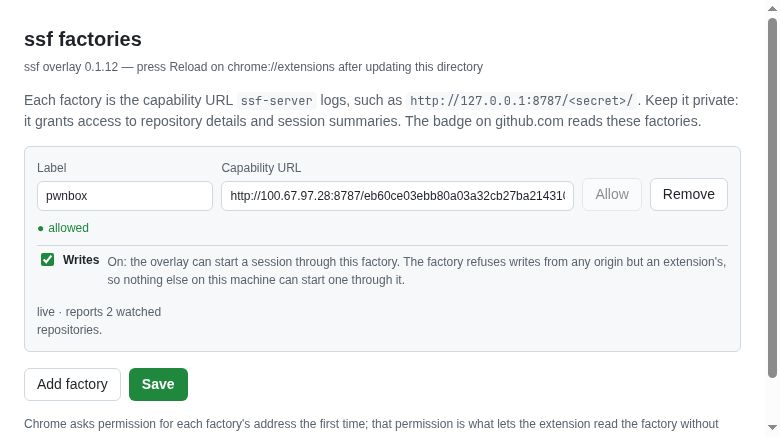
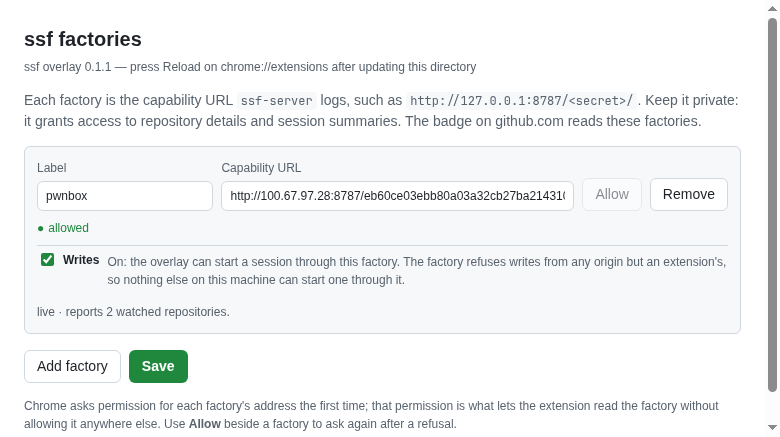
Overlay: fold in the options-page review (#435)
Independent review of the pinned diff found three things, all fixed here.

The port to the service worker was opened once and never kept alive.
Since Chrome 114 an open port does not reset the worker's idle timer --
only messages do -- and the worker is stopped after 30 seconds of
inactivity, which closes the port. An options page left open would then
freeze its health lines at their last text, so a factory that had since
gone down kept reading live, and a factory saved afterwards read blank,
because the restarted worker broadcast to a port set the page was no
longer in. The page now pings every 20 seconds, as the content script
does, and opens a new port from onDisconnect.

A row whose URL the worker has not named yet read blank, which is the
silence this change exists to remove; it now reads "not answered yet.",
so saving a factory never shows nothing.

`grid-column: 1 / -1` on the health line and a screenshot taken from a
test copy whose version had been bumped to 0.1.12, while the manifest in
the same commit said 0.1.1 -- exactly the mismatch the change is meant to
remove. The line is measured at 691 of the row's 717 pixels now, one line
for the common case, and the screenshot was retaken from a browser
running the shipped 0.1.1.

Rebased onto d2b4a46, master's squash of the previous commit, which the
branch conflicted with in the extension guide.

Re-verified in Chromium: the shipped version line and the live factory
[…]

diff --git a/chrome-extension/options.js b/chrome-extension/options.js
@@ -20,6 +20,9 @@ const save = document.getElementById("save");
 let entries = [];
 /// origin pattern -> whether Chrome currently allows it.
 let granted = new Map();
+/// How often the page pings the worker to keep it from being evicted. The same
+/// interval the content script uses.
+const PING_MS = 20000;
 
 function show(message) {
   status.textContent = message;
@@ -204,9 +207,17 @@ let factories = [];
 function showHealth() {
   for (const node of rows.querySelectorAll(".health")) {
     const url = node.dataset.url;
-    const factory = factories.find((one) => one.url === url);
-    if (!url || !factory) {
+    // A row with no usable URL yet -- one just added, or not saved -- has
+    // nothing to report, but a factory the worker has not named yet reads "not
+    // answered yet" rather than nothing: a line that goes blank at the moment
+    // someone saves a factory is the silence this exists to remove (#435).
+    if (!url) {
       node.textContent = "";
+      continue;
+    }
+    const factory = factories.find((one) => one.url === url);
+    if (!factory) {
+      node.textContent = "not answered yet.";
       continue;
     }
     const watched = factory.repositories?.length ?? 0;
@@ -223,14 +234,28 @@ function showHealth() {
 }
 
 // The worker pushes a snapshot when the page connects and on every change, so
-// these lines stay current without polling: a URL just saved reads "not
-// answered yet" until its stream connects, and then says what came back.
-const worker = chrome.runtime.connect({ name: "ssf-overlay" });
-worker.onMessage.addListener((message) => {
-  if (message?.type !== "snapshot") return;
-  factories = message.payload?.factories ?? [];
-  showHealth();
-});
+// these lines stay current without polling. The ping is what keeps the worker
+// alive -- an open port does not reset its idle timer, only messages do -- and a
+// worker that is stopped closes the port, so the page opens another: without
+// both, a page left open would freeze its lines and a factory saved afterwards
+// would read blank, which is the silence these lines exist to remove (#435).
+function connect() {
+  const worker = chrome.runtime.connect({ name: "ssf-overlay" });
+  worker.onMessage.addListener((message) => {
+    if (message?.type !== "snapshot") return;
+    factories = message.payload?.factories ?? [];
+    showHealth();
+  });
+  worker.onDisconnect.addListener(() => setTimeout(connect, 1000));
+  setInterval(() => {
+    try {
+      worker.postMessage({ type: "ping" });
+    } catch {
+      // The port is gone; `onDisconnect` opens another.
+    }
+  }, PING_MS);
+}
+connect();
 
 /// Ask for every address the saved list needs and Chrome does not allow yet.
 /// Must run inside the click's user gesture.

diff --git a/chrome-extension/options.css b/chrome-extension/options.css
@@ -197,6 +197,7 @@ button.primary {
 }
 
 .health {
+  grid-column: 1 / -1;
   margin: 6px 0 0;
   font-size: 12px;
   color: var(--muted, #57606a);

diff --git a/chrome-extension/README.md b/chrome-extension/README.md
@@ -68,7 +68,10 @@ those two lines together answer the two ways an expected card can be missing:
 | `live · reports no watched repositories` | The factory answered but publishes none, so the overlay cannot offer the form for an item it has no record of — either it watches none, or it is an older `ssf-server` that does not publish them (see [Assigning an agent](#assigning-an-agent)). It is the server that needs updating, not the extension. |
 | `stale · reports …` | The stream stopped; the states shown are from the last snapshot. |
 | `unreachable: …` | The factory did not answer, in its own words or the extension's. A capability URL changes when the server restarts, so a URL saved before a restart reads here. |
-| `not answered yet.` | The stream is connecting. |
+| `not answered yet.` | The stream is connecting — shown for a factory just saved too. |
+
+The lines are pushed by the extension's service worker, which the page keeps
+awake while the page is open, so they keep up as factories come and go.
 
 ## The five states
 
